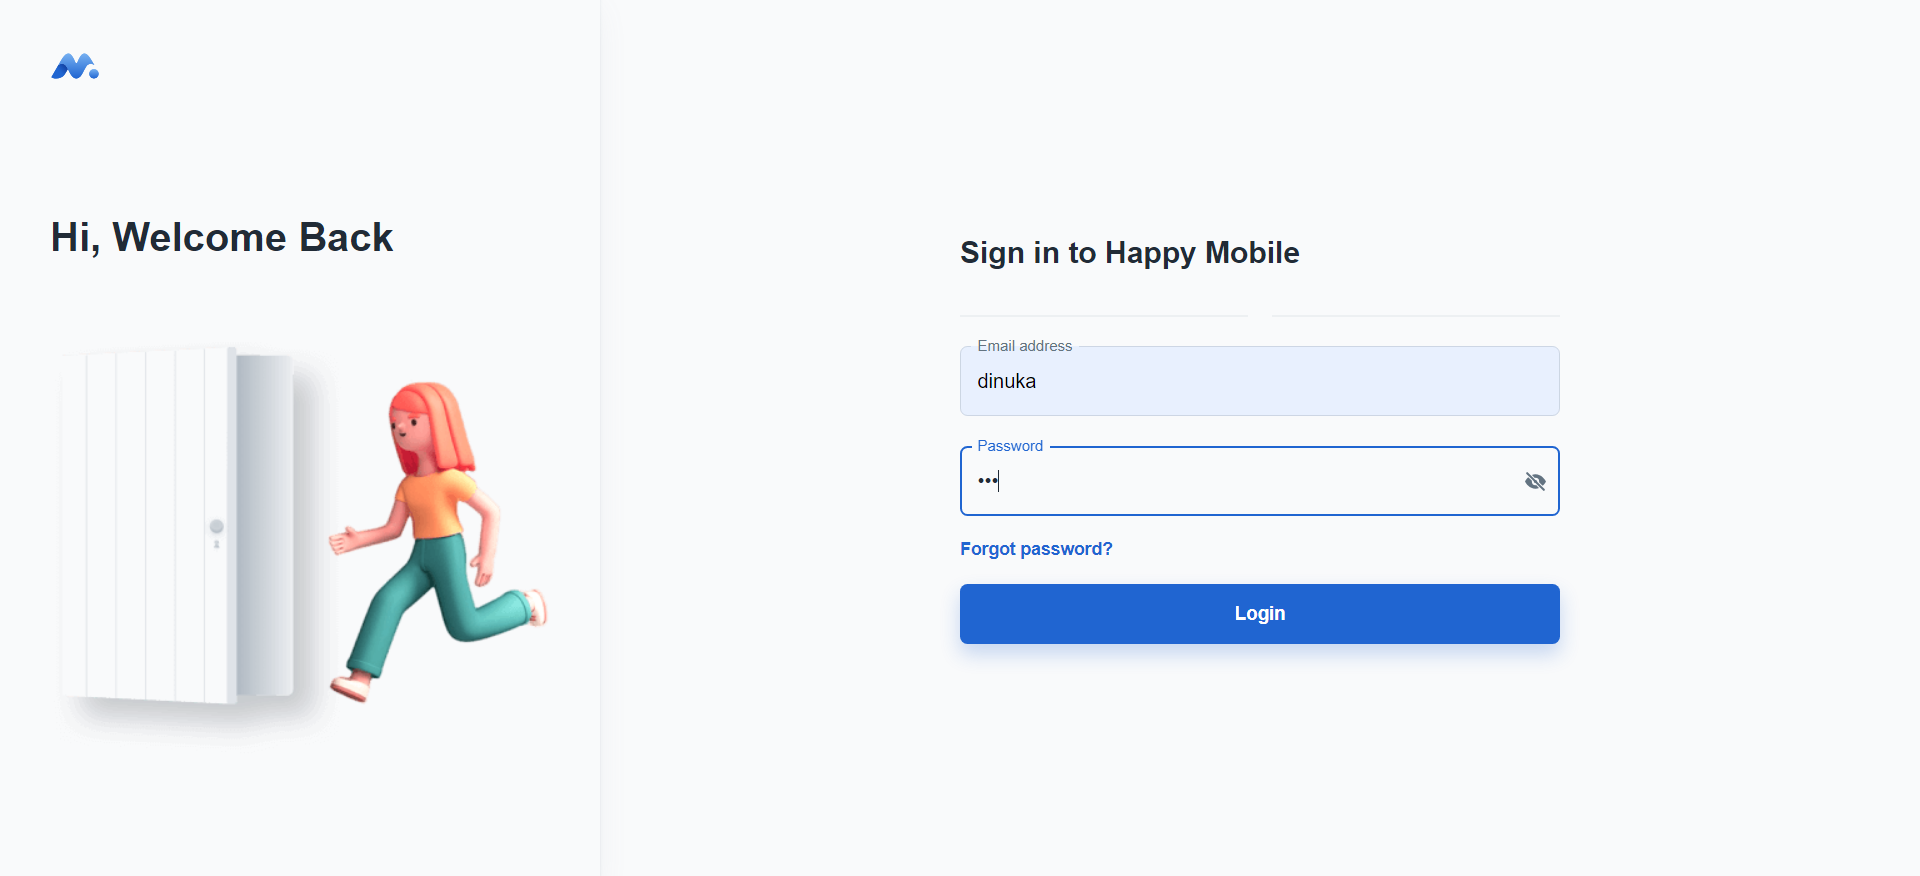
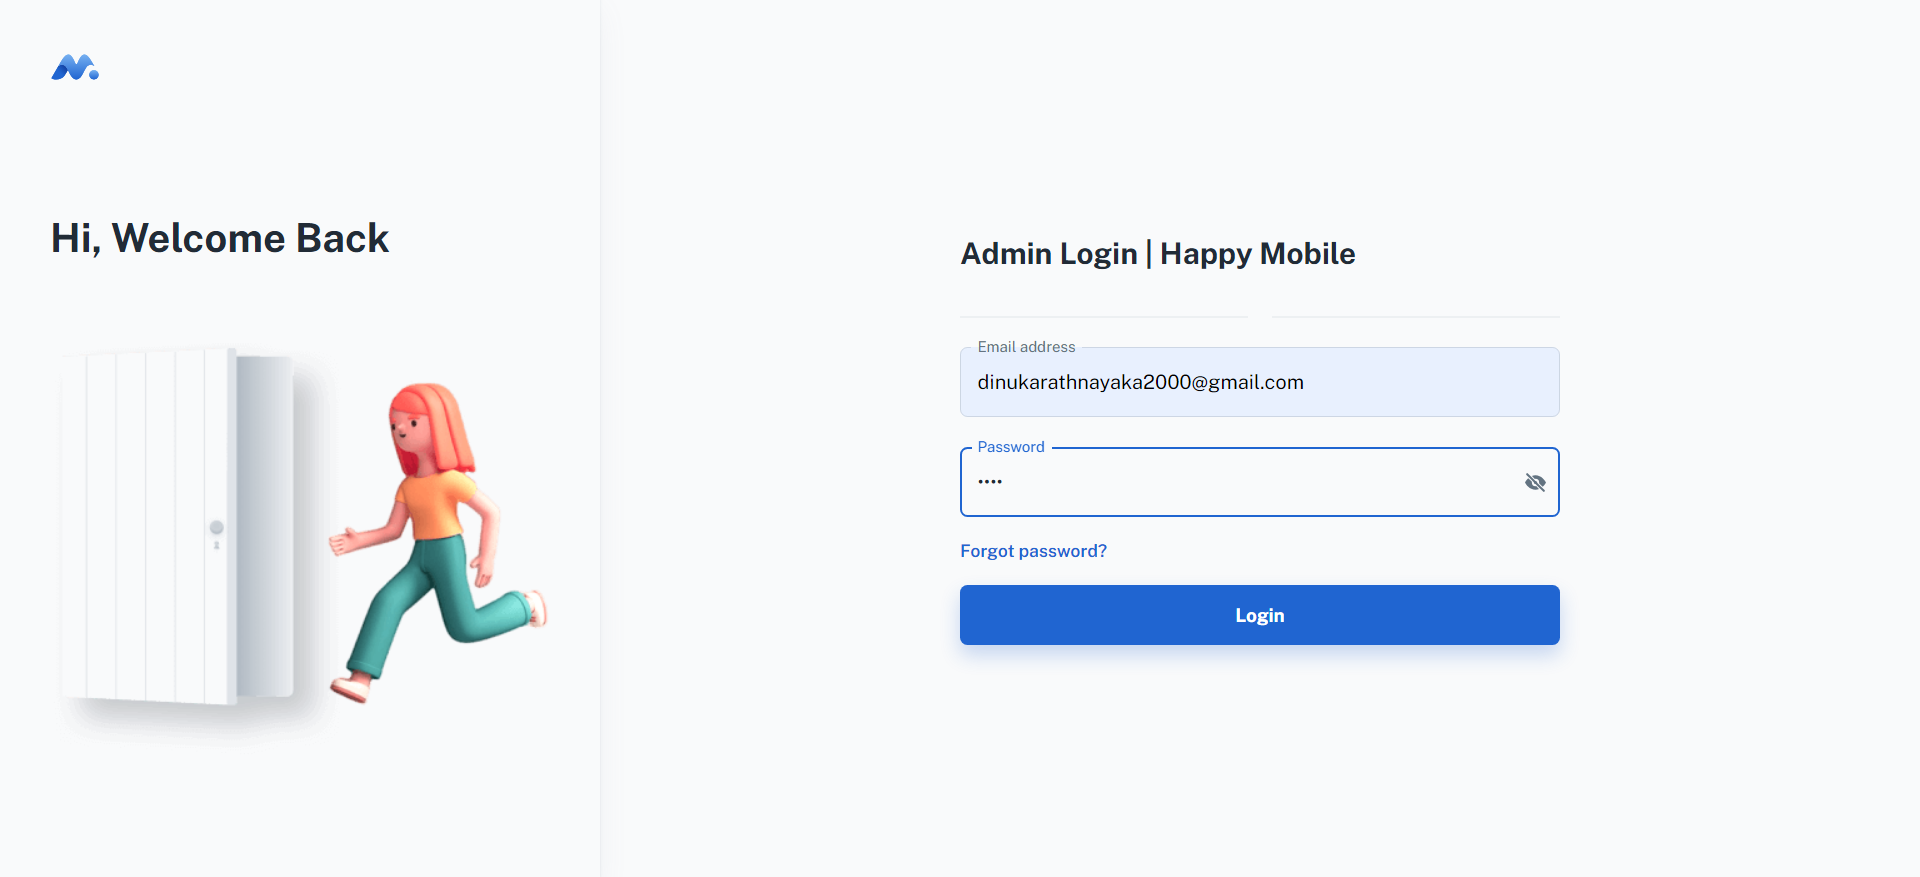
login page change

diff --git a/Mobile-Store-Management_System/src/front-end/src/pages/LoginPage.js b/Mobile-Store-Management_System/src/front-end/src/pages/LoginPage.js
@@ -61,7 +61,7 @@ export default function LoginPage() {
         {mdUp && (
           <StyledSection>
             <Typography variant="h3" sx={{ px: 5, mt: 10, mb: 5 }}>
-              Hi, Welcome Back
+             Hi, Welcome Back
             </Typography>
             <img src="/assets/illustrations/illustration_login.png" alt="login" />
           </StyledSection>
@@ -70,7 +70,7 @@ export default function LoginPage() {
         <Container maxWidth="sm">
           <StyledContent>
             <Typography variant="h4" gutterBottom>
-              Sign in to Happy Mobile
+              Admin Login | Happy Mobile
             </Typography>
 
             {/* <Typography variant="body2" sx={{ mb: 5 }}>
